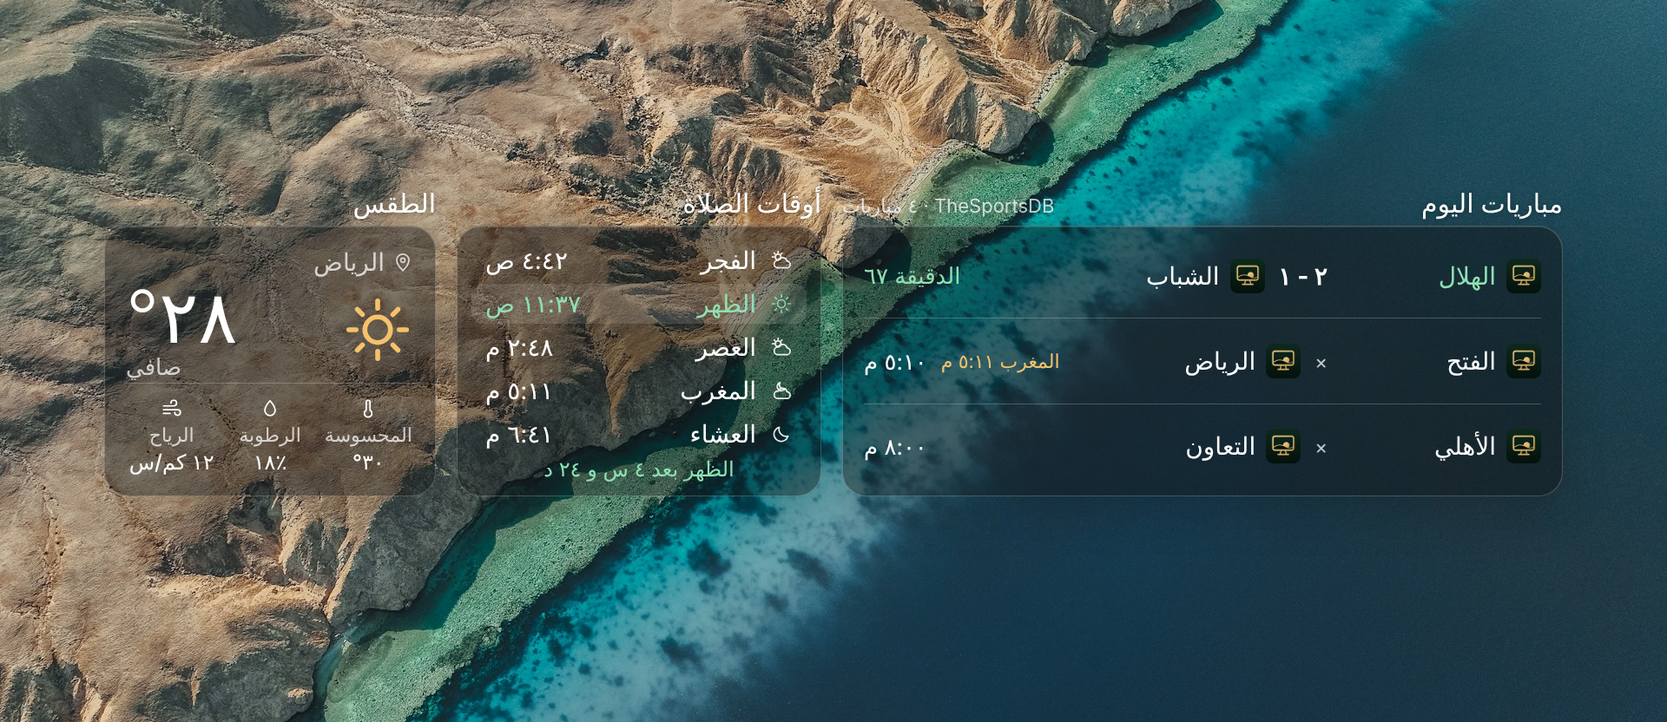
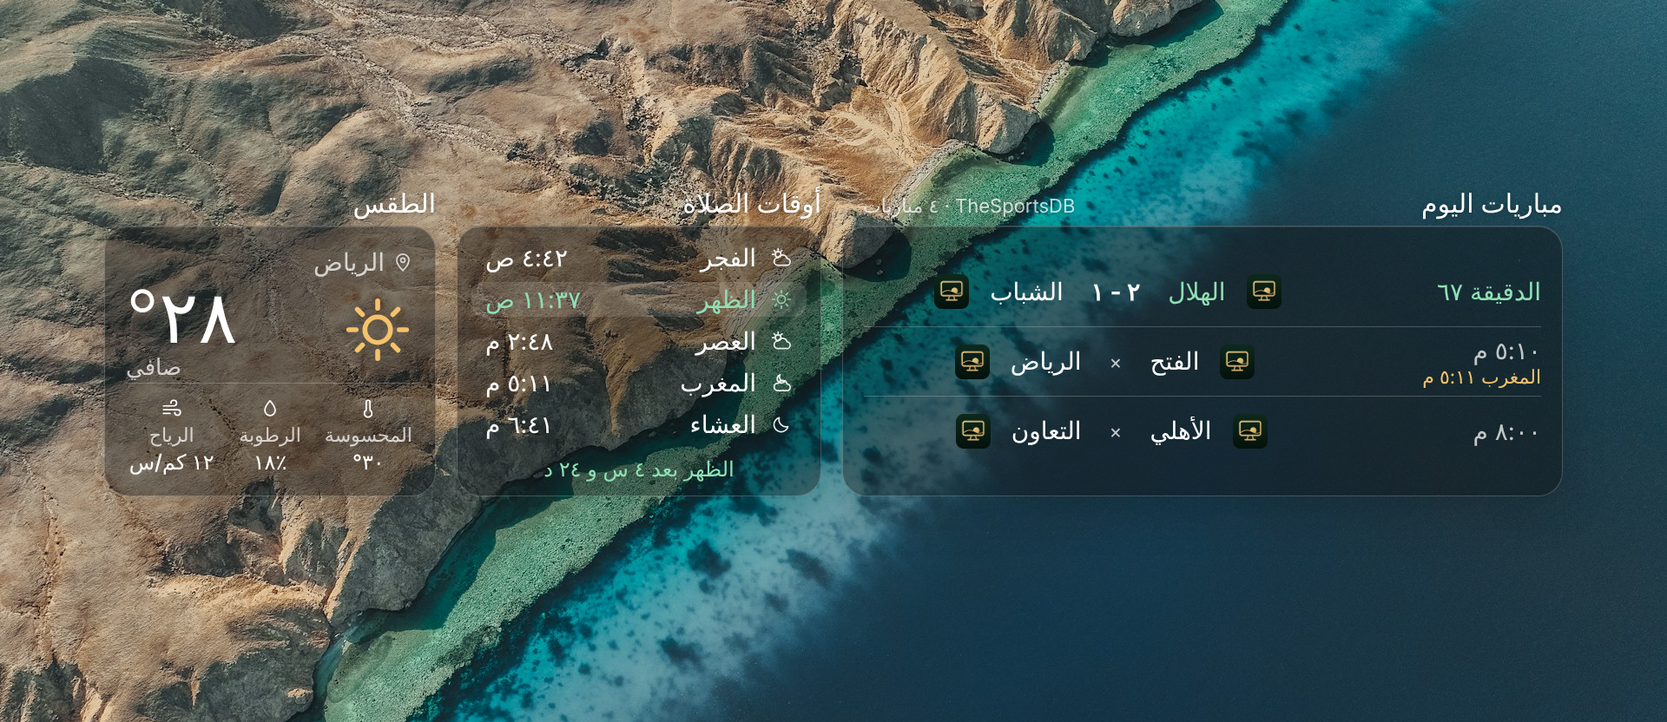
«صفحات الأسهم والمباريات داكنة»: the markets and matches pages in the dark look by default (setting, saver.sh pagesdark, export/import, dark theme of the matches page)

diff --git a/dist/tv-en.html b/dist/tv-en.html
@@ -735,6 +735,18 @@
   .mdb svg{width:1em;height:1em;fill:none;stroke:currentColor;stroke-width:1.8}
   .mdb .fg{font-size:1em}
   .mdn{min-height:calc(var(--u)*36);margin-top:calc(var(--u)*16);text-align:center;color:var(--fgr);font-size:calc(var(--u)*24)}
+  /* the dark look of the page («صفحات الأسهم والمباريات داكنة», #pagedark=1): GlassStyle.DARK's colours, white on #17181B (21:1), the muted text #DADCE0 (13:1), the green #8FE0B4 on #202227 (10:1);
+     the same sizes, gaps and rings as the sand look, only the colours differ */
+  html.mpage.mpdark,html.mpage.mpdark body{background:#17181B}
+  html.mpdark #mp,html.mpdark #mp-detail{--fi:#FFFFFF;--fs:#DADCE0;--fgr:#8FE0B4;--fam:#F0B35A;--fring:#8FE0B4;--fln:rgba(255,255,255,.16);--fbg:#202227}
+  html.mpdark .mpg.f{background:rgba(143,224,180,.14)}
+  html.mpdark #mp .fmk{background:rgba(255,255,255,.08)}
+  html.mpdark #mp-detail{background:rgba(0,0,0,.66)}
+  html.mpdark .mdx{background:#1D1F24;box-shadow:0 30px 80px rgba(0,0,0,.5)}
+  html.mpdark .mdr{background:#202227}
+  html.mpdark .mdb button{background:#2A2D33}
+  html.mpdark .mdb button.pri{background:#1B8354;border-color:#1B8354}
+  html.mpdark .mdx.f,html.mpdark .mdb button.f{box-shadow:0 0 0 calc(var(--u)*3) #1D1F24,0 0 0 calc(var(--u)*6) var(--fring)}
   .clock .ampm{order:1;margin-inline-end:0;margin-inline-start:.25em}
   .week li.quote,.week li.src,.week li.tafsir,.week li.adf .s{direction:rtl}
 </style>
@@ -957,6 +969,8 @@ const CONFIG = {
   // #matchpage=1: «المباريات», the launcher's page of the games (#event= opens one game's card). Neither is ever the screensaver.
   football: _Q.get('football') === '1' && _Q.get('widget') === '1',
   matchPage: _Q.get('matchpage') === '1',
+  // #pagedark=1 with #matchpage=1: «صفحات الأسهم والمباريات داكنة» (on, the default, in the launcher): the page in the dark glass look instead of the sand paper
+  pageDark: _Q.get('pagedark') === '1',
 };
 // the football home and «المباريات» show a league even when none is followed: the Saudi Pro League's file (no request to the sports server)
 if((CONFIG.football || CONFIG.matchPage) && !CONFIG.leagues.length) CONFIG.leagues = ['Saudi-Arabian Pro League'];
@@ -4321,6 +4335,7 @@ function mpKey(e){
 }
 function bootMatchPage(){
   document.documentElement.classList.add('mpage');
+  document.documentElement.classList.toggle('mpdark', !!CONFIG.pageDark);
   document.body.insertAdjacentHTML('beforeend', `<div id="mp"><header><h1>${FB_W.title}</h1><span id="mp-age"></span></header>`
     + '<ul id="mp-days"></ul><div class="mpb"><ul id="mp-side"></ul><div id="mp-list"></div></div></div><div id="mp-detail" hidden></div>');
   document.documentElement.style.setProperty('--u', (innerWidth / 1920) + 'px');

diff --git a/dist/tv.html b/dist/tv.html
@@ -735,6 +735,18 @@
   .mdb svg{width:1em;height:1em;fill:none;stroke:currentColor;stroke-width:1.8}
   .mdb .fg{font-size:1em}
   .mdn{min-height:calc(var(--u)*36);margin-top:calc(var(--u)*16);text-align:center;color:var(--fgr);font-size:calc(var(--u)*24)}
+  /* the dark look of the page («صفحات الأسهم والمباريات داكنة», #pagedark=1): GlassStyle.DARK's colours, white on #17181B (21:1), the muted text #DADCE0 (13:1), the green #8FE0B4 on #202227 (10:1);
+     the same sizes, gaps and rings as the sand look, only the colours differ */
+  html.mpage.mpdark,html.mpage.mpdark body{background:#17181B}
+  html.mpdark #mp,html.mpdark #mp-detail{--fi:#FFFFFF;--fs:#DADCE0;--fgr:#8FE0B4;--fam:#F0B35A;--fring:#8FE0B4;--fln:rgba(255,255,255,.16);--fbg:#202227}
+  html.mpdark .mpg.f{background:rgba(143,224,180,.14)}
+  html.mpdark #mp .fmk{background:rgba(255,255,255,.08)}
+  html.mpdark #mp-detail{background:rgba(0,0,0,.66)}
+  html.mpdark .mdx{background:#1D1F24;box-shadow:0 30px 80px rgba(0,0,0,.5)}
+  html.mpdark .mdr{background:#202227}
+  html.mpdark .mdb button{background:#2A2D33}
+  html.mpdark .mdb button.pri{background:#1B8354;border-color:#1B8354}
+  html.mpdark .mdx.f,html.mpdark .mdb button.f{box-shadow:0 0 0 calc(var(--u)*3) #1D1F24,0 0 0 calc(var(--u)*6) var(--fring)}
 </style>
 </head>
 <body>
@@ -955,6 +967,8 @@ const CONFIG = {
   // #matchpage=1: «المباريات», the launcher's page of the games (#event= opens one game's card). Neither is ever the screensaver.
   football: _Q.get('football') === '1' && _Q.get('widget') === '1',
   matchPage: _Q.get('matchpage') === '1',
+  // #pagedark=1 with #matchpage=1: «صفحات الأسهم والمباريات داكنة» (on, the default, in the launcher): the page in the dark glass look instead of the sand paper
+  pageDark: _Q.get('pagedark') === '1',
 };
 // the football home and «المباريات» show a league even when none is followed: the Saudi Pro League's file (no request to the sports server)
 if((CONFIG.football || CONFIG.matchPage) && !CONFIG.leagues.length) CONFIG.leagues = ['Saudi-Arabian Pro League'];
@@ -4314,6 +4328,7 @@ function mpKey(e){
 }
 function bootMatchPage(){
   document.documentElement.classList.add('mpage');
+  document.documentElement.classList.toggle('mpdark', !!CONFIG.pageDark);
   document.body.insertAdjacentHTML('beforeend', `<div id="mp"><header><h1>${FB_W.title}</h1><span id="mp-age"></span></header>`
     + '<ul id="mp-days"></ul><div class="mpb"><ul id="mp-side"></ul><div id="mp-list"></div></div></div><div id="mp-detail" hidden></div>');
   document.documentElement.style.setProperty('--u', (innerWidth / 1920) + 'px');

diff --git a/src/template.html b/src/template.html
@@ -735,6 +735,18 @@
   .mdb svg{width:1em;height:1em;fill:none;stroke:currentColor;stroke-width:1.8}
   .mdb .fg{font-size:1em}
   .mdn{min-height:calc(var(--u)*36);margin-top:calc(var(--u)*16);text-align:center;color:var(--fgr);font-size:calc(var(--u)*24)}
+  /* the dark look of the page («صفحات الأسهم والمباريات داكنة», #pagedark=1): GlassStyle.DARK's colours, white on #17181B (21:1), the muted text #DADCE0 (13:1), the green #8FE0B4 on #202227 (10:1);
+     the same sizes, gaps and rings as the sand look, only the colours differ */
+  html.mpage.mpdark,html.mpage.mpdark body{background:#17181B}
+  html.mpdark #mp,html.mpdark #mp-detail{--fi:#FFFFFF;--fs:#DADCE0;--fgr:#8FE0B4;--fam:#F0B35A;--fring:#8FE0B4;--fln:rgba(255,255,255,.16);--fbg:#202227}
+  html.mpdark .mpg.f{background:rgba(143,224,180,.14)}
+  html.mpdark #mp .fmk{background:rgba(255,255,255,.08)}
+  html.mpdark #mp-detail{background:rgba(0,0,0,.66)}
+  html.mpdark .mdx{background:#1D1F24;box-shadow:0 30px 80px rgba(0,0,0,.5)}
+  html.mpdark .mdr{background:#202227}
+  html.mpdark .mdb button{background:#2A2D33}
+  html.mpdark .mdb button.pri{background:#1B8354;border-color:#1B8354}
+  html.mpdark .mdx.f,html.mpdark .mdb button.f{box-shadow:0 0 0 calc(var(--u)*3) #1D1F24,0 0 0 calc(var(--u)*6) var(--fring)}
 </style>
 </head>
 <body>
@@ -951,6 +963,8 @@ const CONFIG = {
   // #matchpage=1: «المباريات», the launcher's page of the games (#event= opens one game's card). Neither is ever the screensaver.
   football: _Q.get('football') === '1' && _Q.get('widget') === '1',
   matchPage: _Q.get('matchpage') === '1',
+  // #pagedark=1 with #matchpage=1: «صفحات الأسهم والمباريات داكنة» (on, the default, in the launcher): the page in the dark glass look instead of the sand paper
+  pageDark: _Q.get('pagedark') === '1',
 };
 // the football home and «المباريات» show a league even when none is followed: the Saudi Pro League's file (no request to the sports server)
 if((CONFIG.football || CONFIG.matchPage) && !CONFIG.leagues.length) CONFIG.leagues = ['Saudi-Arabian Pro League'];
@@ -4310,6 +4324,7 @@ function mpKey(e){
 }
 function bootMatchPage(){
   document.documentElement.classList.add('mpage');
+  document.documentElement.classList.toggle('mpdark', !!CONFIG.pageDark);
   document.body.insertAdjacentHTML('beforeend', `<div id="mp"><header><h1>${FB_W.title}</h1><span id="mp-age"></span></header>`
     + '<ul id="mp-days"></ul><div class="mpb"><ul id="mp-side"></ul><div id="mp-list"></div></div></div><div id="mp-detail" hidden></div>');
   document.documentElement.style.setProperty('--u', (innerWidth / 1920) + 'px');

diff --git a/tests/settings_move_test.py b/tests/settings_move_test.py
@@ -52,7 +52,7 @@ for bad in st.get("refuse", []):          # a value the TV refuses (answers erro
         out("error: refused by the fake TV: " + bad)
 ENUM = {"digits": ["hindi", "latin"], "clocksize": ["large", "medium", "small"], "mkstyle": ["arrows", "prices"],
         "cardstyle": ["current", "dark1", "glass1", "dark3", "glass3"], "prayermethod": ["auto", "gulf", "jafari"],
-        "sunrise": ["on", "off"], "prayerbar": ["on", "off"], "wxmore": ["on", "off"], "months": ["default", "levant"],
+        "sunrise": ["on", "off"], "prayerbar": ["on", "off"], "wxmore": ["on", "off"], "pagesdark": ["on", "off"], "months": ["default", "levant"],
         "greeting": ["on", "off"], "listenpill": ["on", "off"], "updatebell": ["on", "off"], "adhanbar": ["on", "off"], "clock24": ["on", "off"], "mkbar": ["on", "off"], "prayeradj": ["on", "off"],
         "favbar": ["5", "6", "7", "8", "9", "10", "all"]}
 if "SaverReceiver" in cmd and cmd.endswith(".GET"):
@@ -69,7 +69,7 @@ if "SaverReceiver" in cmd and cmd.endswith(".GET"):
         "leagues: ", "autoupdate: on", "pin: 4321", "wifi: HomeNet", "tasks: buy milk", "updatechannel: " + s.get("updatechannel", "stable"), "favbar: " + s.get("favbar", "5")]
         + ([f"country: {s['country']}"] if "country" in s else [])
         + ([] if st.get("old_app") else [f"panel2: {s['panel2']}", f"sunrise: {s['sunrise']}", f"prayerbar: {s['prayerbar']}",
-                                          f"wxmore: {s['wxmore']}", f"months: {s['months']}"])))
+                                          f"wxmore: {s['wxmore']}", f"pagesdark: {s.get('pagesdark', 'on')}", f"months: {s['months']}"])))
 if "SaverReceiver" in cmd and re.search(r"screensaver\.SET( |$)", cmd):
     s, extras = st["saver"], dict(re.findall(r"--es (\w+) '([^']*)'", cmd))
     assert cmd.count("--es ") == len(extras), "an unquoted value was sent: " + cmd
@@ -136,7 +136,7 @@ BASE = {
               "panel": "verse", "home_panel": "none", "greeting": "on", "listenpill": "on", "updatebell": "on", "adhanbar": "on", "prayermethod": "auto", "prayeradj": "off",
               "adj": {"fajr": 0, "dhuhr": 0, "asr": 0, "maghrib": 0, "isha": 0}, "hijri": "0", "digits": "hindi", "clock24": "off",
               "cardstyle": "current", "markets": ["tasi", "spx", "btc"], "mkbar": "on", "clocksize": "large", "mkstyle": "arrows",
-              "panel2": "none", "sunrise": "off", "prayerbar": "off", "wxmore": "off", "months": "default", "updatechannel": "stable", "favbar": "5"},
+              "panel2": "none", "sunrise": "off", "prayerbar": "off", "wxmore": "off", "pagesdark": "on", "months": "default", "updatechannel": "stable", "favbar": "5"},
     "adhan": {"on": "on", "voice": 1, "fajr_voice": 10, "short": "off", "stopkey": "on", "volume": 70},
 }
 CONFIGURED = copy.deepcopy(BASE)
@@ -144,7 +144,7 @@ CONFIGURED["saver"].update({"city": ["الدوحة", "25.2854", "51.531"], "tz":
                             "panel": "prayers", "home_panel": "verse,hourly", "greeting": "off", "listenpill": "off", "updatebell": "off", "adhanbar": "off",
                             "prayermethod": "jafari", "prayeradj": "on", "hijri": "-1", "digits": "latin", "clock24": "on",
                             "cardstyle": "glass1", "markets": ["gold", "btc"], "mkbar": "off", "clocksize": "medium", "mkstyle": "prices",
-                            "panel2": "hourly", "sunrise": "on", "prayerbar": "on", "wxmore": "on", "months": "levant", "favbar": "7"})
+                            "panel2": "hourly", "sunrise": "on", "prayerbar": "on", "wxmore": "on", "pagesdark": "off", "months": "levant", "favbar": "7"})
 CONFIGURED["saver"]["adj"] = {"fajr": 2, "dhuhr": 0, "asr": -3, "maghrib": 1, "isha": 0}
 CONFIGURED["favs"] = ["afasy", "sudais"]
 CONFIGURED["adhan"] = {"on": "off", "voice": 3, "fajr_voice": 13, "short": "on", "stopkey": "off", "volume": 40}
@@ -532,6 +532,7 @@ rc, out, err = rd.run("import", deep)
 check("a file nested too deeply is refused, not a traceback", rc != 0 and "nested too deeply" in err and "Traceback" not in err and not rd.sent(), (rc, err[-200:]))
 
 # ---- today's settings: the second card, the sunrise, the prayer bar, the humidity and wind, the month names (and never the update channel)
+check("«صفحات الأسهم والمباريات داكنة»: export carries pagesdark as the TV reports it (off here), and the default TV exports on", exp["pagesdark"] is False, exp.get("pagesdark"))
 check("export carries cards.panel2, sunrise, prayerbar, wxmore and months as the TV reports them",
       exp["cards"]["panel2"] == "hourly" and exp["sunrise"] is True and exp["prayerbar"] is True and exp["wxmore"] is True and exp["months"] == "levant", exp)
 check("the hidden update-channel switch is never exported, never allow-listed, and never sent",

diff --git a/android/app/src/main/java/sa/urtv/screensaver/SaverReceiver.java b/android/app/src/main/java/sa/urtv/screensaver/SaverReceiver.java
@@ -20,7 +20,7 @@ import java.util.Locale;
  *   am broadcast -n sa.urtv.screensaver/.SaverReceiver -a sa.urtv.screensaver.CITIES
  *   am broadcast -n sa.urtv.screensaver/.SaverReceiver -a sa.urtv.screensaver.SET
  *       [--es city 'الرس'] [--es lat 25.86 --es lon 43.49 --es tz Asia/Kuwait]   (tz is needed for a place that is not in the list) [--es teams '136013:Al-Hilal,150643:Al-Zulfi']
- *       [--es panel prayers] [--es panel2 hourly|none] [--es home_panel prayers,hourly,verse|none] [--es greeting on|off] [--es listenpill on|off] [--es updatebell on|off] [--es watchnext on|off] [--es appearance dark|light|auto] [--es look glass|graphite|navy|clean] [--es homelayout classic|football] [--es favbar 5|6|7|8|9|10|all] [--es adhanbar on|off] [--es yearstrip on|off] [--es minrating 7]
+ *       [--es panel prayers] [--es panel2 hourly|none] [--es home_panel prayers,hourly,verse|none] [--es greeting on|off] [--es listenpill on|off] [--es updatebell on|off] [--es watchnext on|off] [--es appearance dark|light|auto] [--es look glass|graphite|navy|clean] [--es homelayout classic|football] [--es favbar 5|6|7|8|all] [--es pagesdark on|off] [--es adhanbar on|off] [--es yearstrip on|off] [--es minrating 7]
  *       [--es sunrise on|off] [--es prayerbar on|off] [--es wxmore on|off] [--es months default|levant] [--es verse day|3] [--es versekind both|verse|hadith] [--es seconds on|off] [--es backexit press|hold|three] [--es occasion on|off] [--es nightdim on|off] [--es taskspill on|off] [--es backsaver on|off] [--es genres Drama,Comedy] [--es langs English]
  *       [--es photos 30] [--es idle 10] [--es digits hindi|latin] [--es hijrioffset -2..2] [--es clock24 on|off] [--es lang ar|en]
  *       [--es cardstyle current|dark1|glass1|dark3|glass3] [--es national auto|off]
@@ -46,6 +46,7 @@ import java.util.Locale;
  * appearance = «المظهر ← الإضاءة» of the home screen: dark (the default), light, or auto (light from sunrise until Maghrib in the city).
  * look = «المظهر ← الشكل» of all our screens: glass (the default), graphite, navy or clean.
  * listenpill = the «تلاوة وأذان» button on the home screen (on, the default, or off: only the button goes, the adhan and the Quran stay).
+ * pagesdark = the home's markets and matches pages in the dark look (on, the default) or in the home's look (off).
  * watchnext = «أكمل المشاهدة» under the home screen's favourites (on, the default, or off); it needs the home app's TV listings permission.
  * updatebell = the «جرس التحديثات» on the home screen (on, the default, or off: only the bell goes; it shows only while the Play Store has updates waiting).
  * greeting = the greeting and the weather line above the home screen's clock (on, the default, or off: the plain good-morning).
@@ -261,6 +262,9 @@ public class SaverReceiver extends BroadcastReceiver {
         String watchNext = i.getStringExtra("watchnext");
         if (watchNext != null && !"on".equals(watchNext) && !"off".equals(watchNext))
             return "error: watchnext is one of on off";
+        String pagesDark = i.getStringExtra("pagesdark");
+        if (pagesDark != null && !"on".equals(pagesDark) && !"off".equals(pagesDark))
+            return "error: pagesdark is one of on off";
         String updateBell = i.getStringExtra("updatebell");
         if (updateBell != null && !"on".equals(updateBell) && !"off".equals(updateBell))
             return "error: updatebell is one of on off";
@@ -384,6 +388,7 @@ public class SaverReceiver extends BroadcastReceiver {
         if (look != null) p.setLook(look);
         if (homeLayout != null) p.setHomeLayout(homeLayout);
         if (favBar != null) p.setFavBar(favBar);
+        if (pagesDark != null) p.setPagesDark("on".equals(pagesDark));
         if (adhanBar != null) p.setAdhanBar("on".equals(adhanBar));
         if (updateChannel != null && !updateChannel.equals(p.updateChannel())) {   // another release now: the number shown as the newest is read again
             p.setUpdateChannel(updateChannel);
@@ -558,6 +563,7 @@ public class SaverReceiver extends BroadcastReceiver {
             + "\nlook: " + p.look()
             + "\nhomelayout: " + p.homeLayout()
             + "\nfavbar: " + p.favBar()
+            + "\npagesdark: " + (p.pagesDark() ? "on" : "off")
             + "\nadhanbar: " + (p.adhanBar() ? "on" : "off")
             + "\nupdatechannel: " + p.updateChannel()
             + "\nyearstrip: " + (p.yearStrip() ? "on" : "off")

diff --git a/optimize/settings_move.py b/optimize/settings_move.py
@@ -45,7 +45,7 @@ MIGRATIONS = {}
 # TODO(parental PIN, branch work/parental): the PIN must NEVER be added here, and must never be exported by any other way.
 ALLOWED_TOP = ("schema", "city", "digits", "prayer", "hijri_offset", "clock24", "clock_size", "card_style", "cards",
                "greeting", "listen_pill", "update_bell", "markets", "teams", "adhan", "sunrise", "prayerbar", "wxmore", "months",
-               "lang", "fav_bar", "reciter_favs")
+               "lang", "fav_bar", "reciter_favs", "pagesdark")
 # NEVER here: the hidden update-channel switch (updatechannel) and the parental PIN. tests/settings_move_test.py checks both.
 
 # The same lists the apps validate (android/app/src/main/java/sa/urtv/screensaver/Prefs.java; tests/settings_move_test.py
@@ -59,7 +59,7 @@ MONTHS = ("default", "levant")
 LANGS = ("ar", "en")   # «اللغة» (Tr.java: ar, the default, or en)
 RECITER_ID = re.compile(r"[A-Za-z0-9_-]{1,60}")   # a reciter's id in quran/reciters.json
 FAV_BARS = ("5", "6", "7", "8", "9", "10", "all")   # «تطبيقات في الشريط»: how many favourites the home tray shows whole (Prefs.FAV_BARS)
-SWITCHES = ("greeting", "sunrise", "prayerbar", "wxmore")   # on/off switches the TV reports as «on» / «off»
+SWITCHES = ("greeting", "sunrise", "prayerbar", "wxmore", "pagesdark")   # on/off switches the TV reports as «on» / «off»
 MARKETS = ("tasi", "aramco", "spx", "btc", "gold", "silver", "oil", "xrp")
 MAX_MARKETS = 4
 PANELS = ("shows", "prayers", "forecast", "hourly", "prayerrow", "nextprayer", "matches", "verse", "wisdom", "adhkar",
@@ -273,7 +273,7 @@ def flat(s):
         if "country" in c:
             out["city"] += (c["country"],)
     for k in ("digits", "clock24", "clock_size", "card_style", "greeting", "listen_pill", "update_bell", "hijri_offset", "sunrise", "prayerbar", "wxmore", "months",
-              "lang", "fav_bar"):
+              "lang", "fav_bar", "pagesdark"):
         if k in s:
             out[k] = s[k]
     for k, v in s.get("prayer", {}).items():
@@ -457,7 +457,7 @@ def validate(d):
         out["lang"] = d["lang"]
     if "fav_bar" in d and choice(d["fav_bar"], FAV_BARS, "fav_bar", errs):
         out["fav_bar"] = d["fav_bar"]
-    for key in ("clock24", "greeting", "listen_pill", "update_bell", "sunrise", "prayerbar", "wxmore"):
+    for key in ("clock24", "greeting", "listen_pill", "update_bell", "sunrise", "prayerbar", "wxmore", "pagesdark"):
         if key in d:
             n = len(errs)
             boolean(d[key], key, errs)
@@ -670,7 +670,7 @@ def ops(values, names):
             es("clocksize", v)
         elif p == "card_style":
             es("cardstyle", v)
-        elif p in ("greeting", "sunrise", "prayerbar", "wxmore"):
+        elif p in ("greeting", "sunrise", "prayerbar", "wxmore", "pagesdark"):
             es(p, flag(v))
         elif p == "months":
             es("months", v)

diff --git a/tests/step28b_test.py b/tests/step28b_test.py
@@ -40,4 +40,21 @@ check("6 (the owner's choice B): a muted TV is unmuted for the adhan and muted a
       and "muted(context)" not in rc and "adhan skipped: the TV is muted" not in rc and "adhan skipped: the TV is muted" not in ms)
 sc = text(HOME / "setup/SetupCommunity.java")
 check("7: the community list's name is in the report also when our own lists know the TV", "choice.meta != null ? \" (\" + choice.meta.name + \")\" : \"\"" in sc)
+
+# the owner's ask: «صفحات الأسهم والمباريات داكنة» (default on)
+SA = ROOT / "android/app/src/main/java/sa/urtv/screensaver"
+pf, rv, cpv, st = text(SA / "Prefs.java"), text(SA / "SaverReceiver.java"), text(SA / "ConfigProvider.java"), text(SA / "SettingsActivity.java")
+check("8: the setting: Prefs (on by default), the command's word checked before anything is set, `show` says it, the provider gives the home pages_dark, and the settings row is next to «المظهر»",
+      'boolean pagesDark() { return sp.getBoolean("pagesDark", true); }' in pf and 'error: pagesdark is one of on off' in rv and 'p.setPagesDark("on".equals(pagesDark))' in rv
+      and '"\\npagesdark: " + (p.pagesDark() ? "on" : "off")' in rv and '"pages_dark"' in cpv and 'p.pagesDark() ? "1" : "0"' in cpv
+      and st.index('row("المظهر"') < st.index('row("صفحات الأسهم والمباريات داكنة"') < st.index('row("الخروج من تلفزيونك"'))
+cfg, gs = text(HOME / "ConfigSnapshot.java"), text(HOME / "GlassSource.java")
+check("8: the home reads it (on for an older screensaver); Markets uses the dark look (GlassStyle.DARK over the same backdrop) while on, else the home's look; the matches page gets #pagedark=1",
+      "boolean pagesDark = true;" in cfg and 'cur.getColumnIndex("pages_dark")' in cfg and "GlassStyle.Look l = GlassStyle.DARK;" in gs and "if (!ConfigSnapshot.read(a).pagesDark) return page(a, root);" in gs
+      and "GlassSource.pageFor(this, root)" in text(HOME / "MarketsActivity.java") and '(cfg.pagesDark ? "&pagedark=1" : "")' in text(HOME / "MatchesActivity.java"))
+check("8: the page has its dark theme (#pagedark=1 → html.mpdark), the sand look is the default of the page without it", "pageDark: _Q.get('pagedark') === '1'," in tpl and "html.mpage.mpdark,html.mpage.mpdark body{background:#17181B}" in tpl
+      and "classList.toggle('mpdark', !!CONFIG.pageDark)" in tpl)
+sh = text(ROOT / "optimize/saver.sh")
+check("8: saver.sh pagesdark on|off, and the export / import carry it (settings_move.py: SWITCHES, the allow-list, the import)", 'pagesdark) set1 pagesdark' in sh
+      and '"pagesdark"' in text(ROOT / "optimize/settings_move.py") and text(ROOT / "optimize/settings_move.py").count('"pagesdark"') >= 5)
 sys.exit(1 if failed else 0)

diff --git a/android/launcher/src/main/java/sa/urtv/home/ConfigSnapshot.java b/android/launcher/src/main/java/sa/urtv/home/ConfigSnapshot.java
@@ -20,6 +20,7 @@ final class ConfigSnapshot {
     final boolean watchNextOn;
     /** «تطبيقات في الشريط»: "5" to "10" or "all"; an older screensaver does not say: 5, as the tray always was */
     String favBar = "5";
+    boolean pagesDark = true;   // «صفحات الأسهم والمباريات داكنة»: an older screensaver says nothing: on, the default
     /** «المظهر»: auto, light or dark (Look.mode); an older screensaver does not say: dark, as the home always was */
     private final String appearance;
     private final String look;   // «المظهر ← الشكل» (GlassStyle.look): an older screensaver says nothing: glass
@@ -43,7 +44,7 @@ final class ConfigSnapshot {
     }
 
     /** The same values, marked as an old copy. */
-    ConfigSnapshot asStale() { ConfigSnapshot c = new ConfigSnapshot(fragment, greetingOn, adhanBarOn, listenPillOn, updateBellOn, appearance, watchNextOn, look, true, placeTicket); c.favBar = favBar; return c; }
+    ConfigSnapshot asStale() { ConfigSnapshot c = new ConfigSnapshot(fragment, greetingOn, adhanBarOn, listenPillOn, updateBellOn, appearance, watchNextOn, look, true, placeTicket); c.favBar = favBar; c.pagesDark = pagesDark; return c; }
 
     /**
      * The settings fragment for the PRAYER PLACE (Place, the adhan alarm, the day parts): null when this is an old copy, so that only a real
@@ -87,6 +88,7 @@ final class ConfigSnapshot {
         String fragment = null;
         boolean greeting = true, bar = true, listenPill = true, updateBell = true, watchNext = true;
         String appearance = null, look = null, favBar = "5";
+        boolean pagesDark = true;
         try (Cursor cur = c.getContentResolver().query(URI, null, null, null, null)) {
             if (cur != null && cur.moveToFirst()) {
                 fragment = cur.getString(0);
@@ -104,6 +106,8 @@ final class ConfigSnapshot {
                 if (a >= 0) appearance = cur.getString(a);
                 int k = cur.getColumnIndex("look");
                 if (k >= 0) look = cur.getString(k);
+                int pd = cur.getColumnIndex("pages_dark");
+                if (pd >= 0 && "0".equals(cur.getString(pd))) pagesDark = false;
                 int fb = cur.getColumnIndex("fav_bar");   // an older screensaver does not say: 5
                 if (fb >= 0 && cur.getString(fb) != null) favBar = cur.getString(fb);
             }
@@ -112,6 +116,7 @@ final class ConfigSnapshot {
         }
         ConfigSnapshot made = new ConfigSnapshot(fragment, greeting, bar, listenPill, updateBell, appearance, watchNext, look, false, ticket);
         made.favBar = favBar;
+        made.pagesDark = pagesDark;
         return made;
     }
 

diff --git a/tests/fix181_test.py b/tests/fix181_test.py
@@ -69,7 +69,7 @@ prov = text(ROOT / "android/app/src/main/java/sa/urtv/screensaver/ConfigProvider
 snap = text(HOME / "ConfigSnapshot.java")
 check("bar size: 5 (default) to 8 or all (9 and 10 are taken as 8: ten tiles across were too small, step 28); a bad value keeps 5; the command checks the word before anything is set, and `show` says it", 'FAV_BARS = {"5", "6", "7", "8", "all"}' in prefs and 'return "9".equals(v) || "10".equals(v) ? "8" : v;' in prefs and 'sp.getString("favBar", "5")' in prefs
       and 'error: favbar is one of' in rcv and "if (favBar != null) p.setFavBar(favBar);" in rcv and '"\\nfavbar: " + p.favBar()' in rcv)
-check("bar size: the provider gives the home fav_bar, the home reads it (5 for an older screensaver) and the phone API sets and states it", '"home_layout", "fav_bar"}' in prov and 'out.putString("fav_bar", p.favBar())' in prov
+check("bar size: the provider gives the home fav_bar, the home reads it (5 for an older screensaver) and the phone API sets and states it", '"home_layout", "fav_bar", "pages_dark"}' in prov and 'out.putString("fav_bar", p.favBar())' in prov
       and 'cur.getColumnIndex("fav_bar")' in snap and 'case "fav_bar":' in text(HOME / "phone/Schema.java") and 'm.put("fav_bar"' in text(HOME / "phone/PhoneActions.java"))
 mn = text(HOME / "MainActivity.java")
 check("bar size: every favourite's cell is as wide as FavBar.tileW(h, shown) says (the tray keeps its box, the insets and the gap), the watch-next rows share the tray's cells, a changed setting resizes the cells", "FavBar.tileW(getResources().getDisplayMetrics().heightPixels, FavBar.shown(barSetting, favs), i)" in mn

diff --git a/android/app/src/main/java/sa/urtv/screensaver/ConfigProvider.java b/android/app/src/main/java/sa/urtv/screensaver/ConfigProvider.java
@@ -72,8 +72,8 @@ public class ConfigProvider extends ContentProvider {
         }
         // home_panel: the first card alone (what an older launcher reads); home_panels: all of them, "a,b,c" or "none"
         List<String> cards = p.homePanels();
-        MatrixCursor c = new MatrixCursor(new String[] {"fragment", "home_panel", "greeting", "home_panels", "adhan_bar", "listen_pill", "update_channel", "appearance", "update_bell", "watch_next", "look", "home_layout", "fav_bar"});
-        c.addRow(new Object[] {p.fragment(), cards.isEmpty() ? "none" : cards.get(0), p.greeting() ? "1" : "0", p.homePanel(), p.adhanBar() ? "1" : "0", p.listenPill() ? "1" : "0", p.updateChannel(), p.appearance(), p.updateBell() ? "1" : "0", p.watchNext() ? "1" : "0", p.look(), p.homeLayout(), p.favBar()});
+        MatrixCursor c = new MatrixCursor(new String[] {"fragment", "home_panel", "greeting", "home_panels", "adhan_bar", "listen_pill", "update_channel", "appearance", "update_bell", "watch_next", "look", "home_layout", "fav_bar", "pages_dark"});
+        c.addRow(new Object[] {p.fragment(), cards.isEmpty() ? "none" : cards.get(0), p.greeting() ? "1" : "0", p.homePanel(), p.adhanBar() ? "1" : "0", p.listenPill() ? "1" : "0", p.updateChannel(), p.appearance(), p.updateBell() ? "1" : "0", p.watchNext() ? "1" : "0", p.look(), p.homeLayout(), p.favBar(), p.pagesDark() ? "1" : "0"});
         return c;
     }
 

diff --git a/android/app/src/main/java/sa/urtv/screensaver/SettingsHub.java b/android/app/src/main/java/sa/urtv/screensaver/SettingsHub.java
@@ -57,7 +57,7 @@ final class SettingsHub {
         {"حجم الساعة", SAVER}, {"نظام الساعة", CLOCK}, {"إظهار الثواني", CLOCK}, {"الخانة اليسرى", SAVER}, {"العدّ التنازلي", SAVER},
         {"صفحة الأسواق", CONTENT}, {"شريط الأسواق", CONTENT}, {"الأسواق", CONTENT}, {"عرض الأسواق", CONTENT},
         {"المحتوى", SAVER}, {"بطاقة ثانية", SAVER}, {"شكل البطاقة", SAVER}, {"تبديل الآية والحديث", SAVER}, {"الآية والحديث", SAVER},
-        {"البطاقة الأولى", HOME}, {"البطاقة الثانية", HOME}, {"البطاقة الثالثة", HOME}, {"التحية والطقس", HOME}, {"المظهر", LOOK},
+        {"البطاقة الأولى", HOME}, {"البطاقة الثانية", HOME}, {"البطاقة الثالثة", HOME}, {"التحية والطقس", HOME}, {"المظهر", LOOK}, {"صفحات الأسهم والمباريات داكنة", HOME},
         {"افتح تلاوة وأذان", LISTEN}, {"زر تلاوة وأذان", LISTEN}, {"زر المهام", HOME}, {"الرجوع يفتح شاشة التوقف", HOME}, {"الخروج من تلفزيونك", HOME},
         {"أكمل المشاهدة", HOME}, {"جرس التحديثات", HOME},
         {"الأذان", ADHAN},

diff --git a/tests/markets_page_test.py b/tests/markets_page_test.py
@@ -91,7 +91,7 @@ check("the phone API cannot send stocks or markets (Schema's set has neither)", 
 
 # ---- the design rules
 check("the look's tokens, no colours of its own but the allocation's and the greens of OnOff",
-      "GlassSource.page(this, root)" in act and "OnOff.GREEN_ON_DARK" in act and "look.warn" in act and not re.search(r"0x[0-9A-F]{8}", act.replace(act[act.index("ALLOC = {"):act.index("};", act.index("ALLOC = {"))], "")
+      "GlassSource.pageFor(this, root)" in act and "OnOff.GREEN_ON_DARK" in act and "look.warn" in act and not re.search(r"0x[0-9A-F]{8}", act.replace(act[act.index("ALLOC = {"):act.index("};", act.index("ALLOC = {"))], "")
                                                                                                                          .replace("0xFF166A45", "").replace("0xFFFFFFFF", "").replace("0xFF000000", "")))
 check("no pills: buttons and rows are GlassPaint tiles and rows", "Pill" not in act and "GlassPaint.card(b, look, 14)" in act and "GlassPaint.row(this, look, radius)" in act)
 check("toggle style I for «اقفل محفظتي» (OnOff: the state word first, the three green marks at the start)", "R.drawable.ic_on" in act and "OnOff.wordEnd(value)" in act)
